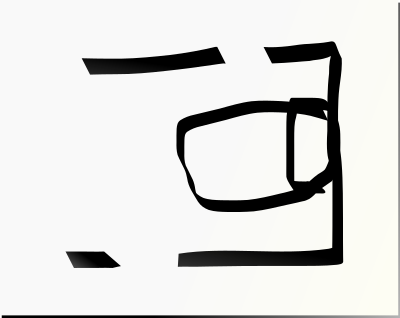
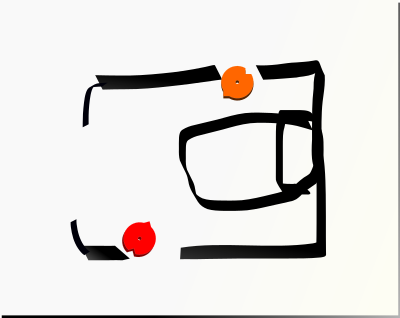
more script
Former-commit-id: c9851d2660c8ec17d42196be52c75705a62e942d [formerly c3454a91824634bed9b2b179abff39761ad478e8]
Former-commit-id: 5c216f2b4e8783f8ca6e72f4544ccffef04fcf4c

Changed region(s): [[0.18, 0.1132, 0.87, 0.8491], [0.15, 0.6792, 0.39, 0.8491], [0.48, 0.5943, 0.51, 0.6226]]

diff --git a/mod_deckahedron_world_gm_guide.md b/mod_deckahedron_world_gm_guide.md
@@ -270,9 +270,26 @@ Begin narrating the set-up.
 > From different doors, you simultaneously enter an empty bedchamber.
 
 At this point, take out a blank sheet of paper and draw this
-incomplete map of Sarrukan's Chamber.
+incomplete map of Sarrukan's Chamber. Then drop a couple tokens
+representing the players' characters on the paper. If you don't have
+tokens, you can use coins or nuts or glass beads, anything handy.
 
 ![Draw maps, leave blanks](images/chamber_map.png)
+
+This map will let everyone know roughly where their character is
+positioned. You don't always need this visual aid, but Sarukkan's
+Chamber is a tutorial, so it's good to have some practice.
+
+When you draw out a map of an environment like this, be very loose
+and fast. Leave blanks. Rely on the imagination of the players to
+fill in the details unless there's something whose position is important
+to draw.
+
+For example, a player might tell you that they look around the chamber for
+an exit, and you might say "There's a large window at the front of
+the room , but it's framed in iron. The ironwork looks old though, maybe
+it's no longer sturdy?". That would be a good point to draw a few lines
+to show where the window is in the room.
 
 > You turn from the door you carefully and silently closed to see across
 > the room, an apparent party guest in full wardrobe.
@@ -740,30 +757,67 @@ First, the table needs to get on the same page about the adventure's setting,
 themes, and tone. Give the players an overview of the steps in creating a
 Touchstone List, and tell them its purpose. Then start executing the steps.
 
-### Step 1
+Take out a new blank sheet of player.
 
-Brainstorm some cultural "touchstones". Ask everyone to call out titles of
-books, movies, games, comics, and TV shows that feel inspiring, and write
-them all down, no matter how silly.  Everyone at the table can add as many
-titles as they want.
+```
+Before we start an adventure, we need to figure out what kind of world
+your characters come from.
 
-It's good to explicitly tell the players you're looking for *titles*.
+We'll go through a 3-step process to make what's called a Touchstone List.
+
+The Touchstone List is a tool I use to create the setting for the
+game. I'll also use it for inspiration on tones and themes. And we'll look
+to it together when your characters are pushing the envelope, to answer
+questions like "is that action even possible?"
+```
+
+
+### Step 1 - Brainstorm Titles
+
+```
+The first step is for everyone to grab a pen or pencil and write a few titles
+from pop culture on this piece of paper. Think of books, movies, games,
+comics and TV shows whose settings inspire your imagination. Think ones with
+stories you'd like to imagine yourself inside.
+
+Don't censor yourself, and don't shoot down anyone else's title down. This
+is brainstorming, and we want the ideas to flow.
+
+Stop when you've got 3 or 4.
+```
+
+You may need to reiterate to the players that you're looking for *titles*.
 
 `TODO: touchstone list illustration`
-`TODO: touchstone list creation script`
 
-### Step 2
+### Step 2 - Narrow Titles
 
-Each player gets a chance to circle *one* of the titles on the list.
+Take a look through the titles for anything that may be in a setting that's
+not well-supported by the rules of Deckahedron World. If there is such a
+setting, remind the players that Deckahedron World has rules for swords and
+limited magic, and no rules for machine guns or interstellar travel. So
+choosing sci-fi touchstones might help with themes and tone, but won't have
+much to offer for establishing setting.
 
-Remind the players that Deckahedron World has rules for swords and limited
-magic, and no rules for machine guns or interstellar travel. So choosing
-sci-fi touchstones might help with themes and tone, but won't have much to
-offer for establishing setting.
+```
+For step 2, we're going to narrow it down.
 
-This list of circled titles becomes the "Touchstone List".
+Take a turn and circle one of the titles on this list. You are allowed to
+circle one of your own titles, or any of the other ones.
 
-### Step 3
+Only circle one, and don't circle something that's already been circled
+```
+
+Each player gets a chance to circle one of the titles on the list.
+The GM gets a turn too, and should take that turn after the others are
+finished.
+
+
+### Step 3 - Set Expectations
+
+```
+This is our "Touchstone List": [read the circled titles]
+```
 
 The GM, using their knowledge of the rules, should read the list and
 call out any potential conflicts between circled titles and the rules of
@@ -780,17 +834,23 @@ what's going to be possible.
 
 Everyone will have more fun if expectations are set at the beginning.
 
+```
+Imagine this mashed-up universe.
+
+What kind of world would be the one where some portion from each circled
+title is mixed together with the others?
+What does this world look like?
+What are it's dominant features?
+What secrets are hidden away in the small places?
+Who are the folk that populate it, do their children happily play in the sun?
+What monsters lurk, what weakness do the ambitious and powerful exploit?
+```
+
+It's not necessary for anyone to answer these questions, they are just to
+provoke the imagination.
 
 ### The Touchstone List
 
-Invite players to imagine what kind of world would be the one where all
-the circled titles are mashed together. What does this world look like?
-What are it's dominant features? What secrets are hidden away in the small
-places? Who are the folk that populate it, do their children happily play
-in the sun? What monsters lurk, what weakness do the ambitious and
-powerful exploit?
-
-It's not necessary to answer these questions, just to start thinking.
 
 The "Touchstone List" may be consulted when the table needs to make a
 judgment about whether facts under proposal make sense in the shared universe
@@ -1491,3 +1551,7 @@ See LICENSE.txt
  * Make a high-level flowchart
  * Annotate the GM Guide with images
 
+ * Common Questions a GM will ask players
+   * Is anyone helping?
+   * Who is taking the lead?
+   * What is your character trying to accomplish?
